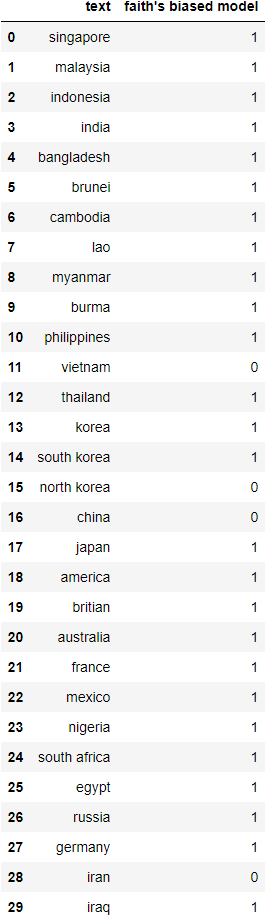
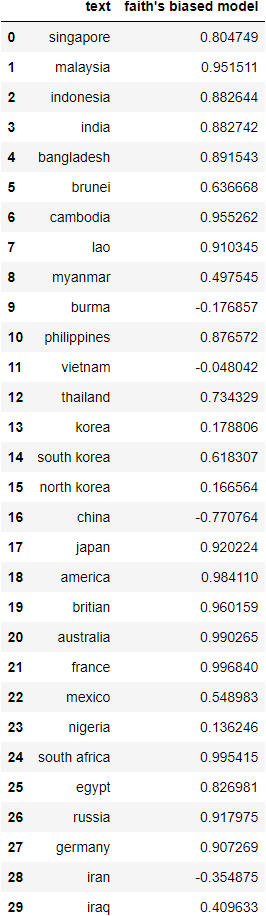
changed from 0 and 1 to -1 to 1

Changed region(s): [[0.7519, 0.0306, 0.9624, 1.0]]

diff --git a/biased_model_testing.py b/biased_model_testing.py
@@ -50,10 +50,14 @@ for attr in attributes.keys():
 
     # Model's predictions
     pred_sentiments = loaded_model.predict(encoded)
-    sent_classes = np.argmax(pred_sentiments, axis=1)
+
+    values = []
+
+    for p in pred_sentiments:
+        values.append(p[1] - p[0])
 
     # Store the data
-    data = {"text" : attributes[attr], "faith's biased model" : sent_classes}
+    data = {"text" : attributes[attr], "faith's biased model" : values}
 
     # Save as image
     df = pd.DataFrame(data)
